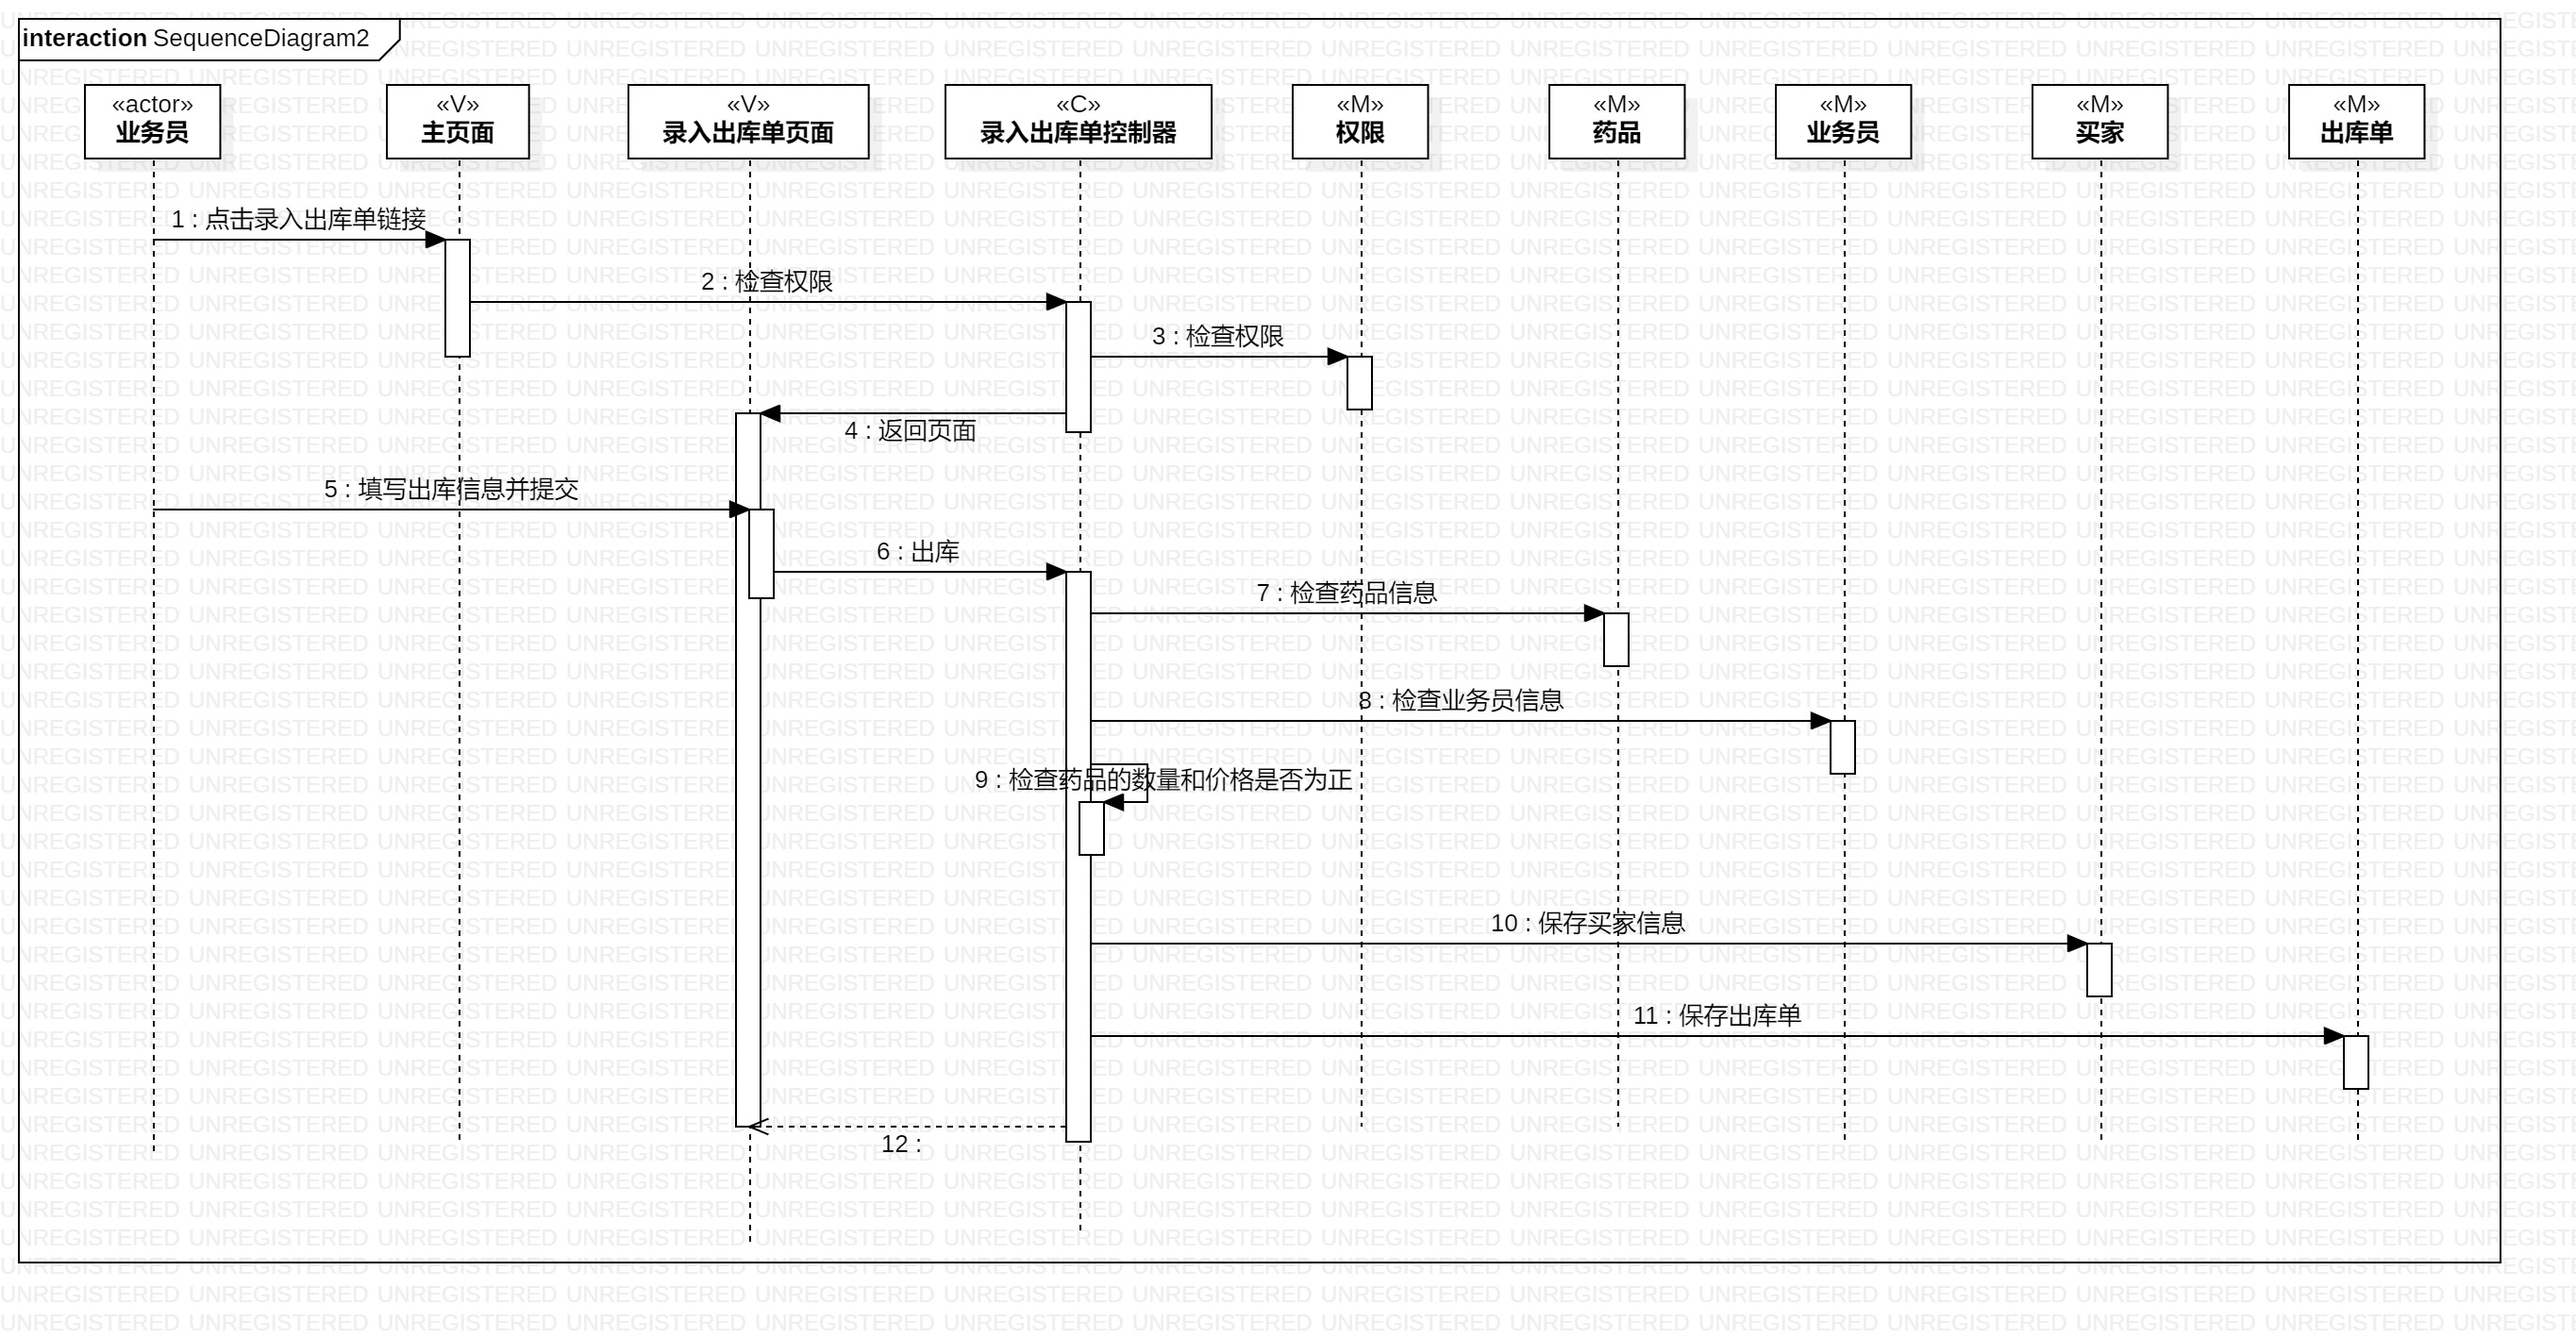
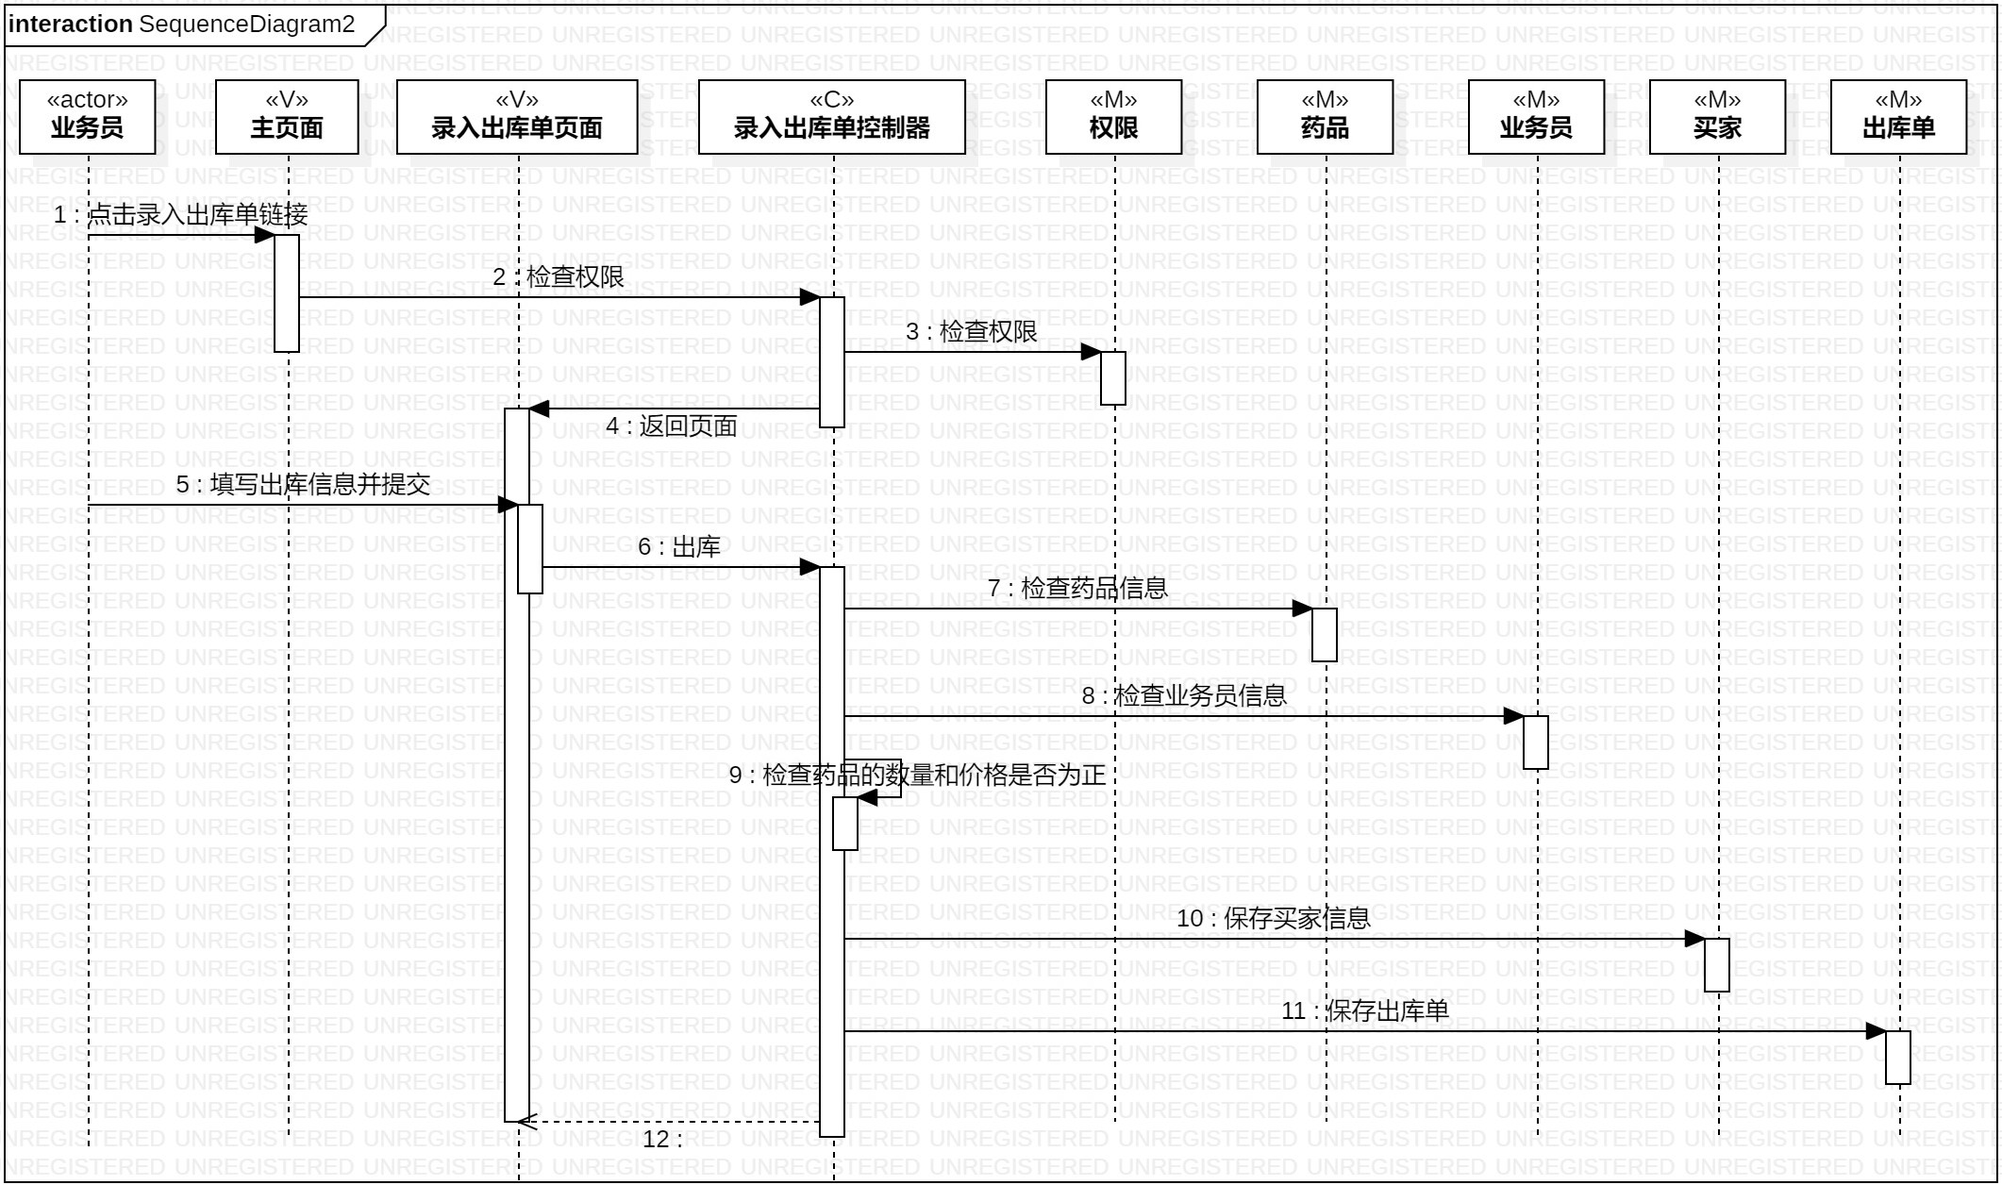
简单修改实验六图片大小

diff --git a/students/1714080902536/lab6.md b/students/1714080902536/lab6.md
@@ -12,7 +12,7 @@
 
 ## 三、实验步骤
 
-1.画顺序图1(Lab3_SequenceDiagram1)/顺序图2(Lab3_SequenceDiagram2)
+1.画顺序图1(Lab6_SequenceDiagram1)/顺序图2(Lab6_SequenceDiagram2)
 
 2.根据实验四、五确定对象，并添加Lifeline
 
